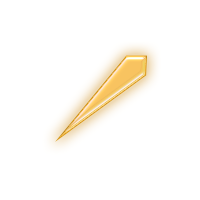
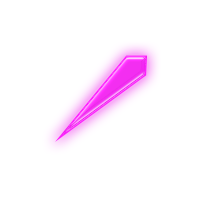
feat: 治疗效果

Changed region(s): [[0.27, 0.24, 0.78, 0.72]]

diff --git a/src/game/core/EffectBuff.ts b/src/game/core/EffectBuff.ts
@@ -91,6 +91,14 @@ class EffectBuff extends EventTarget {
     load: false,
   };
 
+  [EffectType.RESTORE] = {
+    sprint: new Sprite(),
+    sprint1: new Sprite(),
+    scale: 0.2,
+    positionY: 0,
+    load: false,
+  };
+
   /**
    *
    * @param type 添加特效
@@ -115,6 +123,10 @@ class EffectBuff extends EventTarget {
     }
     if (type === EffectType.VENOM) {
       this.addVenomEffect(type);
+      return;
+    }
+    if (type === EffectType.RESTORE) {
+      this.addRestoreEffect(type);
       return;
     }
     if (this.combat.container)
@@ -165,6 +177,39 @@ class EffectBuff extends EventTarget {
     }
     this[type].sprint.visible = false;
     this[type].sprint1.visible = false;
+  }
+
+  /**
+   * 添加治疗特效
+   */
+  addRestoreEffect(type: EffectType) {
+    const texture = Texture.from(effectConfig.effect[type].spriteSrc0);
+    const { scale } = this[type];
+    this[type].sprint.texture = texture;
+    this[type].sprint.anchor.set(0.5);
+    this[type].sprint.position.set(-10, 20);
+    this[type].sprint.scale.set(scale);
+
+    const sprint2 = new Sprite(texture);
+    sprint2.anchor.set(0.5);
+    sprint2.position.set(-40, -25);
+    sprint2.scale.set(scale);
+    sprint2.scale.x = -(sprint2.scale.x * 0.5);
+
+    const sprint3 = new Sprite(texture);
+    sprint3.anchor.set(0.5);
+    sprint3.position.set(20, -30);
+    sprint3.scale.set(scale);
+    sprint3.scale.x = -(sprint3.scale.x * 0.5);
+
+    this.container.addChild(this[type].sprint);
+    this.container.addChild(sprint2);
+    this.container.addChild(sprint3);
+
+    this[type].load = true;
+    this[type].sprint.visible = true;
+    sprint2.visible = true;
+    sprint3.visible = true;
   }
 
   /**

diff --git a/src/game/effectConfig.ts b/src/game/effectConfig.ts
@@ -171,6 +171,14 @@ const effectConfig: EffectConfig = {
       moveSpriteSrc: '/assets/bullet/hold/hold.png',
       label: '禁锢',
     },
+    {
+      name: bulletType.RESTORE,
+      bombSpineSrc: '',
+      bombSpriteSrc: '',
+      moveSpineSrc: '',
+      moveSpriteSrc: '/assets/bullet/restore/restore.png',
+      label: '治疗',
+    },
   ],
 
   effect: {
@@ -208,6 +216,11 @@ const effectConfig: EffectConfig = {
       type: EffectType.ADD_FIRING,
       spriteSrc0: '/assets/effects/firing-animate-1.png',
       spriteSrc1: '/assets/effects/firing-animate-2.png',
+    },
+    [EffectType.RESTORE]: {
+      type: EffectType.RESTORE,
+      spriteSrc0: '/assets/effects/restore.png',
+      spriteSrc1: '',
     },
   },
 };
@@ -296,8 +309,8 @@ export const descOfEffect = {
     remove: false,
   },
   [descType.RESTORE]: {
-    effect: null,
-    add: false,
+    effect: EffectType.RESTORE,
+    add: true,
     remove: false,
   },
   [descType.REMOVE_STOP_MOVE]: {

diff --git a/src/game/core/Combat.ts b/src/game/core/Combat.ts
@@ -378,6 +378,8 @@ class Combat extends EventTarget {
       bullet.attack(bulletType.BULLET, target);
     } else if (effect === descType.ATTACK_MISS) {
       bullet.attack(bulletType.BULLET, target);
+    } else if (effect === descType.RESTORE) {
+      bullet.attack(bulletType.RESTORE, target);
     } else {
       bullet.attack(bulletType.BULLET, target, effect);
     }
@@ -412,7 +414,7 @@ class Combat extends EventTarget {
     this.container.parent.addChild(container);
     bullet.attack(effect, target);
     bullet.addEventListener('moveEnd', () => {
-      // target.effectBuff.addEffect(EffectType.BOMB);
+      target.effectBuff.addEffect(EffectType.RESTORE);
     });
     bullet.addEventListener('attackEnd', () => {
       this.onAttackEnd();

diff --git a/src/game/types.ts b/src/game/types.ts
@@ -353,6 +353,7 @@ export const bulletType = {
   ADD_BOMB: 'add_bomb', // 添加炸弹
   ADD_TERRAIN_FIRING: 'add_terrain_firing', // 添加地形灼烧
   TERRAIN_FIRING: 'terrain_firing', // 地形灼烧中
+  RESTORE: 'restore', // 治疗
 };
 export type BulletType = typeof bulletType[keyof typeof bulletType];
 
@@ -377,6 +378,7 @@ export enum EffectType {
   BOMB = 'bomb', // 炸弹
   SHIELD = 'shield', // 护盾
   VENOM = 'venom', // 毒液
+  RESTORE = 'restore', // 治疗
 }
 
 export interface EffectItemInfoOfConfig {

diff --git a/src/game/core/Bullet.ts b/src/game/core/Bullet.ts
@@ -529,6 +529,7 @@ class Bullet extends EventTarget {
       bulletType.FIGHT,
       bulletType.STOP_MOVE,
       bulletType.SHIELD,
+      bulletType.RESTORE,
     ];
     if (linear.includes(name)) {
       this.linearAttack(name, attackTarget);
